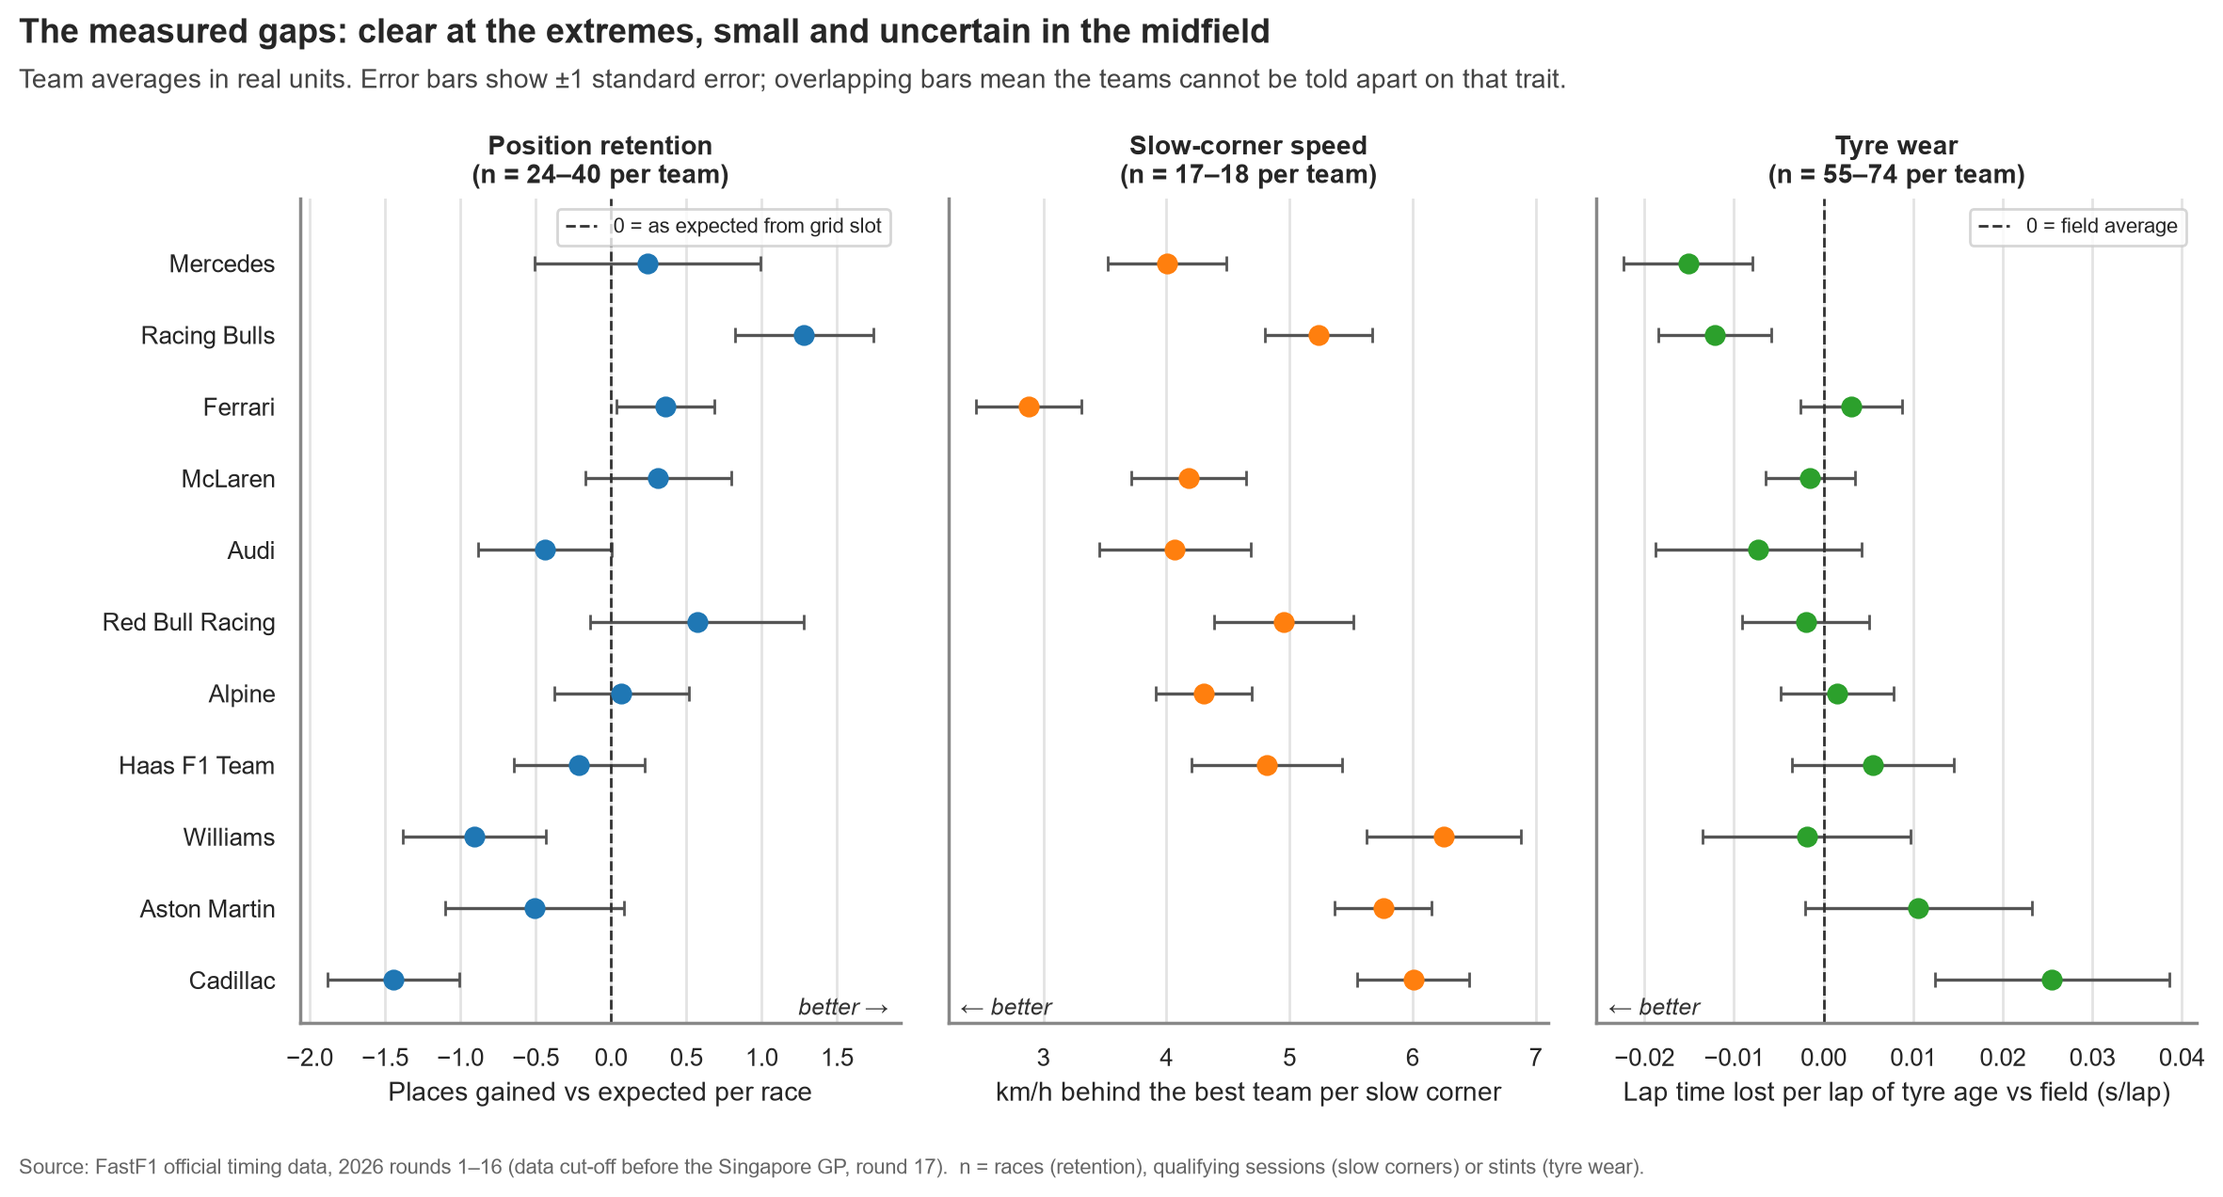
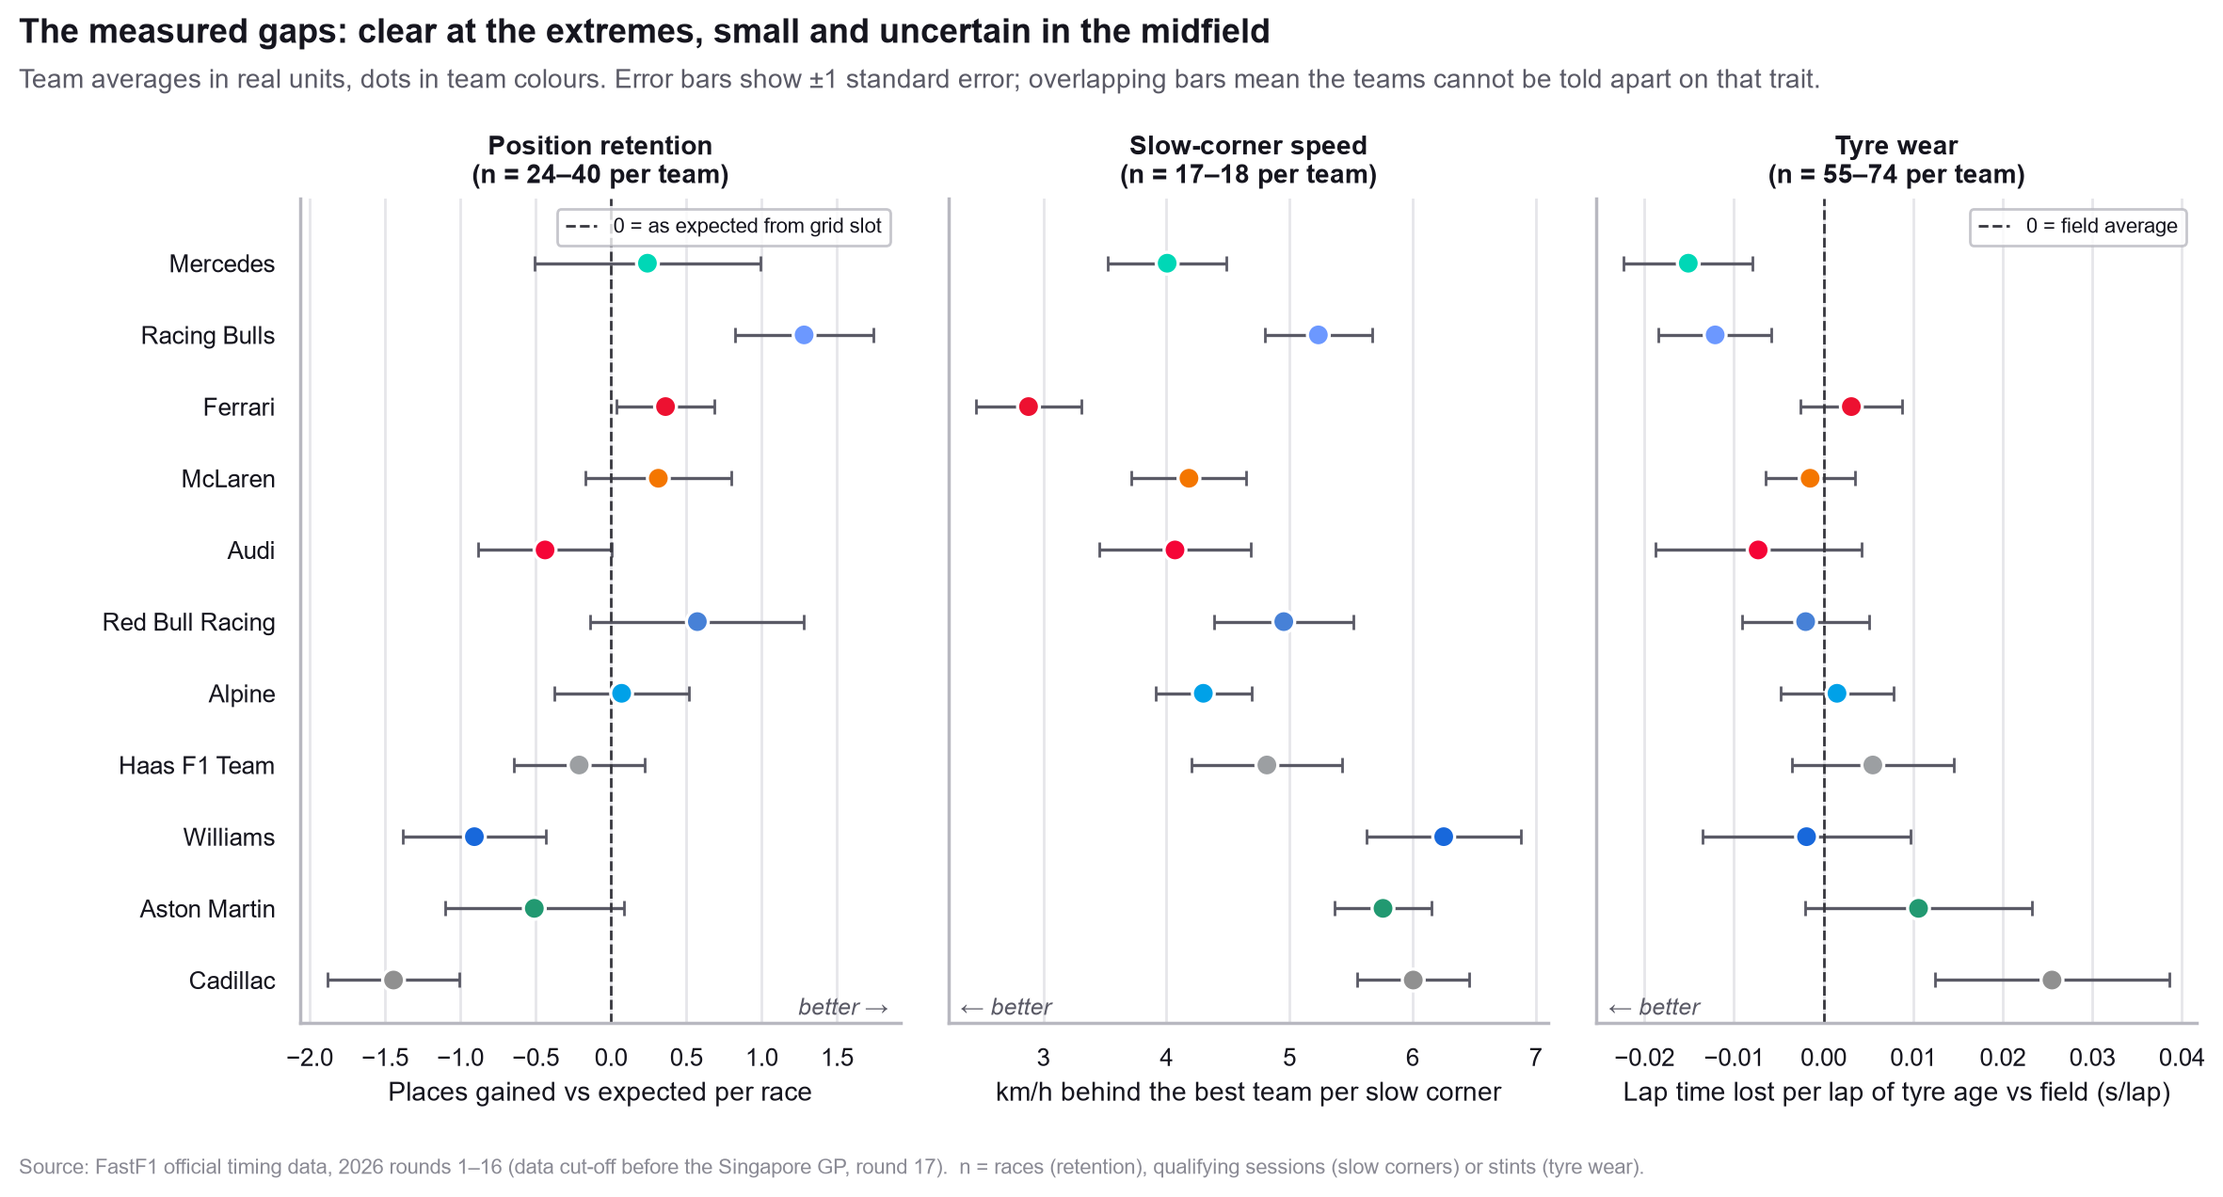
One colour palette across all figures: official team colours + neutral greys
- src/palette.py: team colours (official 2026 TeamColor), trait shades,
  neutral score ramp, carbon/grey chrome, F1 red for highlights only
- figures use team colours wherever a team is shown; look-alike teams
  get dashed/dotted lines in the robustness chart
- test checks the palette still matches the official colours in the data

diff --git a/src/plotting.py b/src/plotting.py
@@ -6,18 +6,20 @@ reports/figures/ and answers one question:
   fig3  How large are the measured gaps, and how certain?
   fig4  Does the ranking depend on our analysis choices?
   fig5  How is tyre wear measured? (worked example)
+
+All colours come from src/palette.py.
 """
 import matplotlib.pyplot as plt
 import numpy as np
-import pandas as pd
 import seaborn as sns
 from matplotlib.lines import Line2D
+from matplotlib.patches import Patch, Rectangle
 
 import config
+from src import palette as pal
 from src.metrics import clean_stint_laps, load, stint_rows
 
 TRAITS = list(config.METRICS)
-TRAIT_COLORS = dict(zip(TRAITS, ["#1f77b4", "#ff7f0e", "#2ca02c"]))
 SOURCE = (f"Source: FastF1 official timing data, {config.SEASON} rounds 1–{config.LAST_ROUND} "
           "(data cut-off before the Singapore GP, round 17).")
 
@@ -26,17 +28,20 @@ def setup_style():
     sns.set_theme(style="whitegrid", context="notebook")
     plt.rcParams.update({
         "font.family": "sans-serif",
+        "text.color": pal.CARBON, "axes.labelcolor": pal.CARBON,
+        "xtick.color": pal.CARBON, "ytick.color": pal.CARBON,
+        "axes.edgecolor": pal.AXIS, "grid.color": pal.GRID,
         "axes.titlesize": 11, "axes.titleweight": "bold", "axes.labelsize": 10,
         "xtick.labelsize": 9.5, "ytick.labelsize": 9.5, "legend.fontsize": 9,
-        "axes.edgecolor": "#888888", "grid.color": "#e3e3e3",
-        "savefig.dpi": 200, "savefig.bbox": "tight",
+        "legend.edgecolor": pal.AXIS,
+        "savefig.dpi": 200, "savefig.bbox": "tight", "savefig.facecolor": "white",
     })
 
 
 def titles(fig, title, subtitle, note=SOURCE):
-    fig.suptitle(title, x=0.01, y=1.0, ha="left", fontsize=13, fontweight="bold")
-    fig.text(0.01, 0.955, subtitle, ha="left", va="top", fontsize=10, color="#444444")
-    fig.text(0.01, -0.01, note, ha="left", va="top", fontsize=8, color="#666666")
+    fig.suptitle(title, x=0.01, y=1.0, ha="left", fontsize=13, fontweight="bold", color=pal.CARBON)
+    fig.text(0.01, 0.955, subtitle, ha="left", va="top", fontsize=10, color=pal.GREY_TEXT)
+    fig.text(0.01, -0.01, note, ha="left", va="top", fontsize=8, color=pal.GREY_NOTE)
 
 
 def save(fig, name, despine=True):
@@ -53,21 +58,26 @@ def save(fig, name, despine=True):
 def fig1_overall(scores):
     df = scores.sort_values("Overall score")
     fig, ax = plt.subplots(figsize=(9, 6))
-    left = np.zeros(len(df))
-    for t in TRAITS:
-        part = df[f"{t}: score"].to_numpy() / len(TRAITS)
-        ax.barh(df.index, part, left=left, color=TRAIT_COLORS[t], height=0.65,
-                edgecolor="white", linewidth=1, label=t)
-        left += part
-    for y, (total, rank) in enumerate(zip(df["Overall score"], df["Overall rank"])):
-        ax.text(total + 1, y, f"{total:.0f}", va="center", fontsize=10, fontweight="bold")
+    for y, team in enumerate(df.index):
+        left = 0.0
+        for t in TRAITS:
+            part = df.at[team, f"{t}: score"] / len(TRAITS)
+            ax.barh(y, part, left=left, height=0.66, edgecolor="white", linewidth=1.2,
+                    color=pal.shade(pal.team_color(team), pal.TRAIT_SHADE[t]))
+            left += part
+        ax.text(left + 1, y, f"{df.at[team, 'Overall score']:.0f}", va="center",
+                fontsize=10, fontweight="bold", color=pal.CARBON)
     ax.set_yticks(range(len(df)), [f"{r}. {t}" for t, r in zip(df.index, df["Overall rank"])])
     ax.set_xlim(0, 100)
     ax.set_xlabel("Overall score (0–100): mean of the three trait scores")
     ax.grid(axis="y", visible=False)
-    ax.legend(title="Contribution from", title_fontsize=9.5, loc="lower right", frameon=True)
+    legend = [Patch(facecolor=pal.shade(pal.GREY_TEXT, pal.TRAIT_SHADE[t]), edgecolor="white", label=t)
+              for t in TRAITS]
+    ax.legend(handles=legend, title="Bar segments (shade of team colour)", title_fontsize=9,
+              loc="lower right", frameon=True)
     titles(fig, "Mercedes, Racing Bulls and Ferrari are almost level at the top; Cadillac trail far behind",
-           "Overall Singapore-suitability score by team. Each bar is split into the share contributed by each trait.")
+           "Overall Singapore-suitability score by team, in team colours. Each bar is split into the share "
+           "contributed by each trait.")
     save(fig, "fig1_overall_score.png")
 
 
@@ -77,11 +87,19 @@ def fig2_heatmap(scores):
     cols = [f"{t}: score" for t in TRAITS] + ["Overall score"]
     data = scores[cols].copy()
     data.columns = ["Position\nretention", "Slow-corner\nspeed", "Tyre\nwear", "Overall"]
-    fig, ax = plt.subplots(figsize=(7.5, 6.5))
-    sns.heatmap(data, annot=True, fmt=".0f", cmap="Blues", vmin=0, vmax=100, linewidths=1,
-                linecolor="white", cbar_kws={"label": "Score (0 = worst team, 100 = best team)"},
-                annot_kws={"fontsize": 10}, ax=ax)
+    fig, ax = plt.subplots(figsize=(7.8, 6.5))
+    sns.heatmap(data, annot=False, cmap=pal.SCORE_CMAP, vmin=0, vmax=100, linewidths=1.5,
+                linecolor="white", cbar_kws={"label": "Score (0 = worst team, 100 = best team)"}, ax=ax)
+    for i, team in enumerate(data.index):
+        for j, col in enumerate(data.columns):
+            v = data.iat[i, j]
+            ax.text(j + 0.5, i + 0.5, f"{v:.0f}", ha="center", va="center", fontsize=10,
+                    color=pal.text_on(v), fontweight="bold" if col == "Overall" else "normal")
+        # team colour chip beside the name
+        ax.add_patch(Rectangle((-0.2, i + 0.18), 0.12, 0.64, color=pal.team_color(team),
+                               clip_on=False, transform=ax.transData))
     ax.axvline(3, color="white", linewidth=6)
+    ax.tick_params(axis="y", pad=16)
     ax.set_xlabel("Trait")
     ax.set_ylabel("Team (sorted by overall score)")
     ax.tick_params(axis="x", rotation=0)
@@ -94,6 +112,7 @@ def fig2_heatmap(scores):
 
 def fig3_measured(scores):
     order = scores.sort_values("Overall score").index
+    colors = [pal.team_color(t) for t in order]
     panels = {
         "Position retention": ("Places gained vs expected per race", "better →", 0, "0 = as expected from grid slot"),
         "Slow-corner speed": ("km/h behind the best team per slow corner", "← better", None, None),
@@ -102,22 +121,24 @@ def fig3_measured(scores):
     fig, axes = plt.subplots(1, 3, figsize=(13, 6), sharey=True)
     for ax, (t, (xlabel, better, ref, ref_label)) in zip(axes, panels.items()):
         v, se, n = (scores.loc[order, f"{t}: {k}"] for k in ("value", "se", "n"))
-        ax.errorbar(v, range(len(order)), xerr=se, fmt="o", color=TRAIT_COLORS[t], ecolor="#555555",
-                    elinewidth=1.2, capsize=3, markersize=7)
+        y = np.arange(len(order))
+        ax.errorbar(v, y, xerr=se, fmt="none", ecolor=pal.GREY_TEXT, elinewidth=1.2, capsize=3, zorder=2)
+        ax.scatter(v, y, c=colors, s=70, edgecolor="white", linewidth=1.2, zorder=3)
         if ref is not None:
-            ax.axvline(ref, color="#333333", linewidth=1, linestyle="--", label=ref_label)
+            ax.axvline(ref, color=pal.REFERENCE, linewidth=1, linestyle="--", label=ref_label)
             ax.legend(loc="upper right", fontsize=8, frameon=True, handlelength=1.5)
         n_text = f"{int(n.min())}" if n.min() == n.max() else f"{int(n.min())}–{int(n.max())}"
-        ax.set_title(f"{t}\n(n = {n_text} per team)", fontsize=10)
+        ax.set_title(f"{t}\n(n = {n_text} per team)", fontsize=10, color=pal.CARBON)
         ax.set_xlabel(xlabel)
-        ax.text(0.98 if "→" in better else 0.02, 0.01, better, transform=ax.transAxes,
-                ha="right" if "→" in better else "left", fontsize=9, color="#333333", style="italic")
+        right = "→" in better
+        ax.text(0.98 if right else 0.02, 0.01, better, transform=ax.transAxes,
+                ha="right" if right else "left", fontsize=9, color=pal.GREY_TEXT, style="italic")
         ax.grid(axis="y", visible=False)
     axes[0].set_yticks(range(len(order)), order)
     axes[0].set_ylim(-0.6, len(order) - 0.1)
     titles(fig, "The measured gaps: clear at the extremes, small and uncertain in the midfield",
-           "Team averages in real units. Error bars show ±1 standard error; overlapping bars mean the teams "
-           "cannot be told apart on that trait.",
+           "Team averages in real units, dots in team colours. Error bars show ±1 standard error; overlapping "
+           "bars mean the teams cannot be told apart on that trait.",
            SOURCE + "  n = races (retention), qualifying sessions (slow corners) or stints (tyre wear).")
     fig.subplots_adjust(top=0.84, wspace=0.08)
     save(fig, "fig3_measured_values.png")
@@ -125,17 +146,18 @@ def fig3_measured(scores):
 
 # --- Figure 4: robustness -------------------------------------------------------------------
 
-def fig4_robustness(ranks, colors):
+def fig4_robustness(ranks):
     fig, ax = plt.subplots(figsize=(11, 6.5))
     xs = np.arange(len(ranks.columns))
+    ax.axvspan(-0.25, 0.25, color=pal.HIGHLIGHT_BG, zorder=0)
     for team, row in ranks.iterrows():
-        c = colors.get(team, "#777777")
-        ax.plot(xs, row.values, color=c, linewidth=2.2, marker="o", markersize=7,
-                markeredgecolor="white", markeredgewidth=1.2)
+        ax.plot(xs, row.values, color=pal.team_color(team), linestyle=pal.TEAM_LINESTYLE.get(team, "-"),
+                linewidth=2.2, marker="o", markersize=7, markeredgecolor="white", markeredgewidth=1.2)
         ax.text(xs[0] - 0.12, row.values[0], team, ha="right", va="center", fontsize=9.5)
         ax.text(xs[-1] + 0.12, row.values[-1], team, ha="left", va="center", fontsize=9.5)
-    ax.axvspan(-0.25, 0.25, color="#f0f0f0", zorder=0)
     ax.set_xticks(xs, ranks.columns)
+    ax.get_xticklabels()[0].set_color(pal.F1_RED)
+    ax.get_xticklabels()[0].set_fontweight("bold")
     ax.set_yticks(range(1, len(ranks) + 1))
     ax.set_ylim(len(ranks) + 0.6, 0.4)
     ax.set_xlim(-1.6, len(xs) - 1 + 1.6)
@@ -143,7 +165,8 @@ def fig4_robustness(ranks, colors):
     ax.set_xlabel("Analysis choice (shaded column = published result)")
     ax.grid(axis="x", visible=False)
     titles(fig, "The top three stay in the top four, and the bottom three stay bottom, under every alternative",
-           "Overall rank when one analysis choice is changed at a time. Line colours are the official 2026 team colours.")
+           "Overall rank when one analysis choice is changed at a time. Lines in team colours; "
+           "dashed or dotted lines separate teams with similar colours.")
     save(fig, "fig4_robustness.png")
 
 
@@ -168,7 +191,7 @@ def representative_pair(stints, team_a="Mercedes", team_b="Cadillac"):
     return best[1], best[2], target
 
 
-def fig5_tyre_example(colors):
+def fig5_tyre_example():
     laps = load("laps", {"R", "S"})
     stints, clean = stint_rows(laps), clean_stint_laps(laps)
     a, b, season_gap = representative_pair(stints)
@@ -179,8 +202,8 @@ def fig5_tyre_example(colors):
                   & (clean["Driver"] == s["Driver"]) & (clean["Stint"] == s["Stint"])]
         x, y = g["TyreLife"].to_numpy(float), g["LapS"].to_numpy()
         slope, intercept = np.polyfit(x, y, 1)
-        c = colors.get(s["Team"], "#777777")
-        ax.scatter(x, y, color=c, s=28, edgecolor="white", linewidth=0.6, zorder=3)
+        c = pal.team_color(s["Team"])
+        ax.scatter(x, y, color=c, s=30, edgecolor="white", linewidth=0.6, zorder=3)
         xs = np.array([x.min(), x.max()])
         ax.plot(xs, slope * xs + intercept, color=c, linewidth=2.2)
         handles.append(Line2D([0], [0], color=c, marker="o", linewidth=2.2,
@@ -190,17 +213,17 @@ def fig5_tyre_example(colors):
     ax.set_ylabel("Lap time (s)")
     ax.legend(handles=handles, loc="lower left", frameon=True)
     titles(fig, f"How tyre wear is measured: Cadillac lose {gap:.3f} s/lap more than Mercedes as tyres age",
-           f"{a['EventName']}, {a['Compound'].title()} tyres, green-flag laps. Lines are least-squares fits. "
-           f"Both cars speed up as fuel burns off;\nthe difference in slope is the tyre-wear gap "
-           f"(season-average gap between these teams: {season_gap:.3f} s/lap).")
+           f"{a['EventName']}, {a['Compound'].title()} tyres, green-flag laps, in team colours. Lines are "
+           f"least-squares fits. Both cars speed up as fuel burns off;\nthe difference in slope is the "
+           f"tyre-wear gap (season-average gap between these teams: {season_gap:.3f} s/lap).")
     fig.subplots_adjust(top=0.83)
     save(fig, "fig5_tyre_wear_example.png")
 
 
-def make_all(scores, ranks, colors):
+def make_all(scores, ranks):
     setup_style()
     fig1_overall(scores)
     fig2_heatmap(scores)
     fig3_measured(scores)
-    fig4_robustness(ranks, colors)
-    fig5_tyre_example(colors)
+    fig4_robustness(ranks)
+    fig5_tyre_example()

diff --git a/src/palette.py b/src/palette.py
@@ -1,0 +1,63 @@
+"""The single colour palette used by every figure.
+
+Rules
+  Team identity  -> the official 2026 team colour (FastF1 `TeamColor`), always
+                    paired with the team's name, because several are near-twins
+                    (four blues, two greys, two reds).
+  Trait          -> a shade of the team's own colour (full, mid, light).
+  Score (0-100)  -> one neutral sequential ramp, light grey to carbon, so the
+                    team colours stay the only saturated colours in any figure.
+  Text, axes     -> carbon and greys; F1 red is reserved for highlights.
+"""
+from matplotlib.colors import LinearSegmentedColormap, to_hex, to_rgb
+
+# Official 2026 team colours, as published in the FastF1 timing data
+# (results `TeamColor`); tests/test_metrics.py checks they still match.
+TEAM_COLORS = {
+    "Mercedes": "#00D7B6",
+    "Ferrari": "#ED1131",
+    "McLaren": "#F47600",
+    "Red Bull Racing": "#4781D7",
+    "Racing Bulls": "#6C98FF",
+    "Alpine": "#00A1E8",
+    "Williams": "#1868DB",
+    "Audi": "#F50537",
+    "Aston Martin": "#229971",
+    "Haas F1 Team": "#9C9FA2",
+    "Cadillac": "#909090",
+}
+
+# Second team of each look-alike pair gets a different line style in line charts.
+TEAM_LINESTYLE = {"Racing Bulls": "--", "Williams": ":", "Audi": "--", "Cadillac": "--"}
+
+# Brand and chrome
+F1_RED = "#E10600"
+CARBON = "#15151E"        # titles, primary text
+GREY_TEXT = "#5A5A66"     # subtitles, secondary text
+GREY_NOTE = "#8A8A94"     # source notes
+GRID = "#E6E6EA"
+AXIS = "#B8B8C0"
+REFERENCE = "#38383F"     # reference lines (zero, field average)
+HIGHLIGHT_BG = "#FBEAEA"  # light F1-red wash for the published-result column
+
+# Trait shades: share of the team colour kept (1 = full colour)
+TRAIT_SHADE = {"Position retention": 1.0, "Slow-corner speed": 0.62, "Tyre wear": 0.32}
+
+# Score ramp for the heatmap: 0 = near-white, 100 = carbon
+SCORE_CMAP = LinearSegmentedColormap.from_list(
+    "f1_score", ["#F5F5F7", "#CFD0D8", "#9294A3", "#55576A", CARBON])
+
+
+def team_color(team):
+    return TEAM_COLORS.get(team, GREY_NOTE)
+
+
+def shade(color, keep):
+    """Mix a colour with white: keep=1 returns the colour, keep=0 returns white."""
+    r, g, b = to_rgb(color)
+    return to_hex((1 - keep + keep * r, 1 - keep + keep * g, 1 - keep + keep * b))
+
+
+def text_on(fill_value, threshold=50):
+    """Ink colour for a number printed on a heatmap cell of the given score."""
+    return "white" if fill_value >= threshold else CARBON

diff --git a/scripts/05_make_figures.py b/scripts/05_make_figures.py
@@ -7,14 +7,14 @@ import pandas as pd
 sys.path.insert(0, str(Path(__file__).resolve().parents[1]))
 import config  # noqa: E402
 from src.plotting import make_all  # noqa: E402
-from src.scoring import SCENARIOS, team_colors  # noqa: E402
+from src.scoring import SCENARIOS  # noqa: E402
 
 
 def main():
     scores = pd.read_csv(config.TABLES_DIR / "team_scores.csv", index_col="Team")
     ranks = pd.read_csv(config.TABLES_DIR / "robustness.csv", index_col="Team")
     ranks.columns = list(SCENARIOS)  # restore the two-line labels for the x-axis
-    make_all(scores, ranks, team_colors())
+    make_all(scores, ranks)
     for p in sorted(config.FIGURES_DIR.glob("*.png")):
         print("wrote", p.relative_to(config.ROOT))
 

diff --git a/tests/test_metrics.py b/tests/test_metrics.py
@@ -98,3 +98,10 @@ def test_scores_span_0_to_100_and_overall_is_the_mean():
         assert s[col].min() == pytest.approx(0) and s[col].max() == pytest.approx(100)
     assert np.allclose(s["Overall score"], s[traits].mean(axis=1))
     assert len(s) == 11
+
+
+def test_palette_matches_official_team_colours(results):
+    from src.palette import TEAM_COLORS
+    latest = results[(results["Session"] == "R") & (results["Round"] == results["Round"].max())]
+    official = {t: f"#{c}".upper() for t, c in zip(latest["TeamName"], latest["TeamColor"])}
+    assert {t: c.upper() for t, c in TEAM_COLORS.items()} == official

diff --git a/src/scoring.py b/src/scoring.py
@@ -80,10 +80,3 @@ def robustness():
     out = pd.DataFrame(ranks)
     out.index.name = "Team"
     return out.sort_values(out.columns[0])
-
-
-def team_colors():
-    """Official 2026 team colours from the timing data (latest round in scope)."""
-    res = load("results", {"R"})
-    latest = res[res["Round"] == res["Round"].max()]
-    return {t: f"#{c}" for t, c in zip(latest["TeamName"], latest["TeamColor"])}

diff --git a/README.md b/README.md
@@ -97,6 +97,7 @@ f1-singapore-2026/
 ├── src/
 │   ├── metrics.py             the three trait definitions
 │   ├── scoring.py             min-max scoring and robustness scenarios
+│   ├── palette.py             one colour palette: official team colours + neutral greys
 │   └── plotting.py            figures (matplotlib + seaborn)
 ├── tests/test_metrics.py      hand checks against known 2026 results
 ├── notebooks/sanity_checks.ipynb  the checks behind each analysis decision
